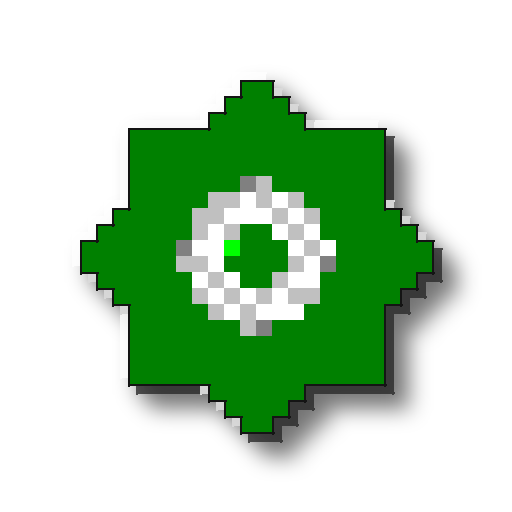
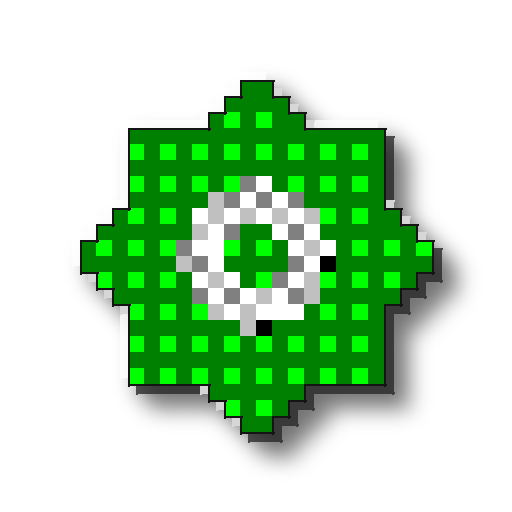
Raise win95 dither spread default from 100 to 250
Tested an 8x8 Bayer matrix as an alternative fix for large flat color
blocks (gear body, chromium disk) and found it doesn't help: matrix size
only changes dither micro-texture, not whether a solidly mid-brightness
pixel is near the dark/bright threshold at all. Spread is the actual
lever. Verified up to 450 with no wrong-hue artifacts and no washed-out
results even at 300, so 250 is now the default. Regenerated all five
win95-palette examples at the new default.

diff --git a/chunkify95.py b/chunkify95.py
@@ -182,15 +182,19 @@ def pixelate_and_quantize(img, grid, colors, palette="adaptive", dither_spread=N
     function's docstring).
 
     dither_spread=None picks a palette-appropriate default: 40 for
-    adaptive, 100 for win95. win95 needs more: its hue-family matching only
-    has two brightness levels (dark/bright) to dither between per hue, a
-    coarser decision than an adaptive palette's finer-grained colors, so a
-    flat-shaded region needs a stronger perturbation before the dither
-    threshold actually pushes any pixels across that boundary. A spread
-    this strong would cause real problems for plain-RGB matching (colors
-    jumping to unrelated hues), but nearest_win95_color only ever dithers
-    brightness, hue comes from the unperturbed pixel, so pushing spread
-    this far is safe and just means denser, more visible checkering.
+    adaptive, 250 for win95. win95 needs a lot more: its hue-family
+    matching only has two brightness levels (dark/bright) to dither
+    between per hue, a coarser decision than an adaptive palette's finer-
+    grained colors, so a flat-shaded region needs a strong perturbation
+    before the dither threshold actually pushes any pixels across that
+    boundary. A spread this strong would wreck plain-RGB matching (colors
+    jumping to unrelated hues entirely), but nearest_win95_color only ever
+    dithers brightness; hue comes from the unperturbed pixel. That's what
+    makes pushing spread this far safe: tested up to 450 with zero wrong-
+    hue artifacts, just progressively denser checkering. Below ~200, large
+    single-color regions (a logo's solid red body, say) mostly don't cross
+    the dark/bright threshold at all and render as one flat block instead
+    of the checkerboard shading real icons use throughout.
     """
     w, h = img.size
     size = max(w, h)
@@ -203,7 +207,7 @@ def pixelate_and_quantize(img, grid, colors, palette="adaptive", dither_spread=N
 
     small = square.convert("RGB").resize((grid, grid), Image.BOX)
     if palette == "win95":
-        spread = dither_spread if dither_spread is not None else 100
+        spread = dither_spread if dither_spread is not None else 250
         quantized_rgb = ordered_dither(small, WIN95_PALETTE, spread=spread, match_fn=nearest_win95_color)
     else:
         spread = dither_spread if dither_spread is not None else 40
@@ -323,7 +327,7 @@ def main():
     p.add_argument("--palette", choices=["adaptive", "win95"], default="adaptive",
                     help="adaptive (default): best-fit palette per image, keeps real color fidelity. win95: real fixed 16-color VGA palette, more period-accurate but loses hues with no close match.")
     p.add_argument("--dither-spread", type=int, default=None,
-                    help="ordered-dither strength, 0 disables (default: 40 for adaptive, 100 for win95)")
+                    help="ordered-dither strength, 0 disables (default: 40 for adaptive, 250 for win95)")
     p.add_argument("--bevel", dest="bevel", action="store_true", default=True)
     p.add_argument("--no-bevel", dest="bevel", action="store_false")
     p.add_argument("--shadow", dest="shadow", action="store_true", default=True)

diff --git a/README.md b/README.md
@@ -43,7 +43,7 @@ Options:
                     VGA palette, hue-matched (see "Palettes" below),
                     more period-accurate but still fewer colors overall.
 --dither-spread N  ordered-dither strength, 0 disables (default: 40
-                    adaptive, 60 win95, see "Palettes")
+                    adaptive, 250 win95, see "Palettes")
 --no-bevel         skip the 3D bevel pass
 --no-shadow        skip the drop shadow
 --no-outline       skip the black silhouette outline
@@ -141,11 +141,20 @@ family boundary entirely, a stray cyan speck showing up in an otherwise
 solid blue circle. `nearest_win95_color` now computes hue and saturation
 from the true, unperturbed pixel, and only perturbs the brightness used
 for the dark/bright decision. Hue is a stable, real property of the
-source color; only lightness should be up for dithering. With that fixed,
-spread can go much higher with no risk of wrong-hue noise, so
-`--dither-spread` defaults to 100 specifically for `--palette win95`,
-which is what the dense checkerboard texture in the sample below actually
-comes from.
+source color; only lightness should be up for dithering.
+
+With that fixed, the remaining question was how much spread it actually
+takes to break up a large flat region, and whether a bigger Bayer matrix
+would help instead. It doesn't: an 8x8 matrix changes the dither pattern's
+micro-texture, not whether a solidly-mid-brightness pixel is anywhere near
+the dark/bright threshold in the first place, and a large flat region is
+made of exactly those pixels regardless of matrix size. Spread is the
+actual lever. Testing it up to 450 against the samples below found no
+wrong-hue artifacts anywhere (the hue/brightness split above is what makes
+that safe) and no washed-out results even at 300, so `--dither-spread`
+defaults to 250 specifically for `--palette win95`. That's what turns the
+Chromium icon below, previously close to two flat blue disks, into visible
+checkerboard texture across the whole body.
 
 The default `adaptive` palette doesn't need either fix: it's built from the
 image's own colors, so nothing in it is competing with gray for pixels that
